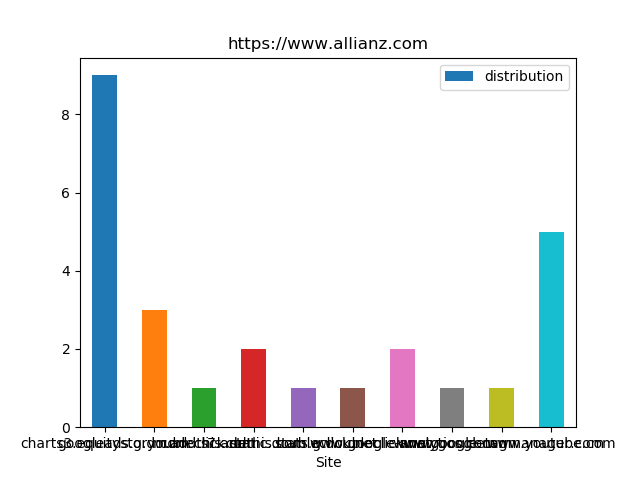
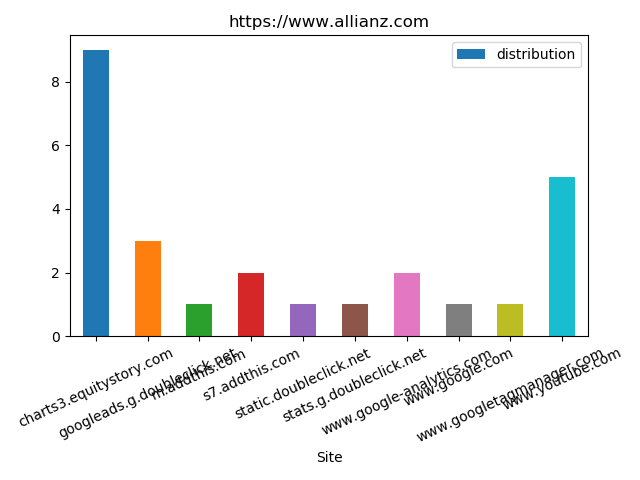
Adjusted plots

diff --git a/assignment1/check_thirdParties.py b/assignment1/check_thirdParties.py
@@ -181,22 +181,22 @@ def main():
         dist = requests_load.groupby(['Site'])['Site'].count().reset_index(name='distribution')
         dist_groups = requests_load.groupby(['CrawledSite','Site'])['Site'].count().reset_index(name='distribution')
 
-        dist_groups.groupby(['CrawledSite'])['distribution'].sum().reset_index(name='sum').plot.bar(x='CrawledSite', y='sum', title='Responses from third parties by start URL')
+        dist_groups.groupby(['CrawledSite'])['distribution'].sum().reset_index(name='sum').plot.bar(x='CrawledSite', y='sum', title='Responses from third parties by start URL', rot=65)
+        plt.tight_layout()
         plt.savefig('plots\\third_parties_per_url.png')
         #dist['distribution'] = dist['distribution'] / dist['distribution'].sum()
 
         for index, group in dist_groups.groupby('CrawledSite'):
-            group.plot.bar(x='Site', y='distribution', title=index, rot=0)
+            group.plot.bar(x='Site', y='distribution', title=index, rot=25)
             start = index.find(".")+1
             end = index.find(".", start)
+            plt.tight_layout()
             plt.savefig('plots\\' + index[start:end] + '_third_parties.png')
 
         # Plots for responses
         resp_status_dist = responses_load.groupby(['Status'])['Status'].count().reset_index(name='distribution')
-        resp_status_dist.plot.bar(x='Status', y='distribution', title='Number of status codes for all responses')
+        resp_status_dist.plot.bar(x='Status', y='distribution', title='Number of status codes for all responses',rot=45)
         plt.savefig('plots\\responses_status_codes.png')
-
-
 
 
 if __name__ == '__main__':
